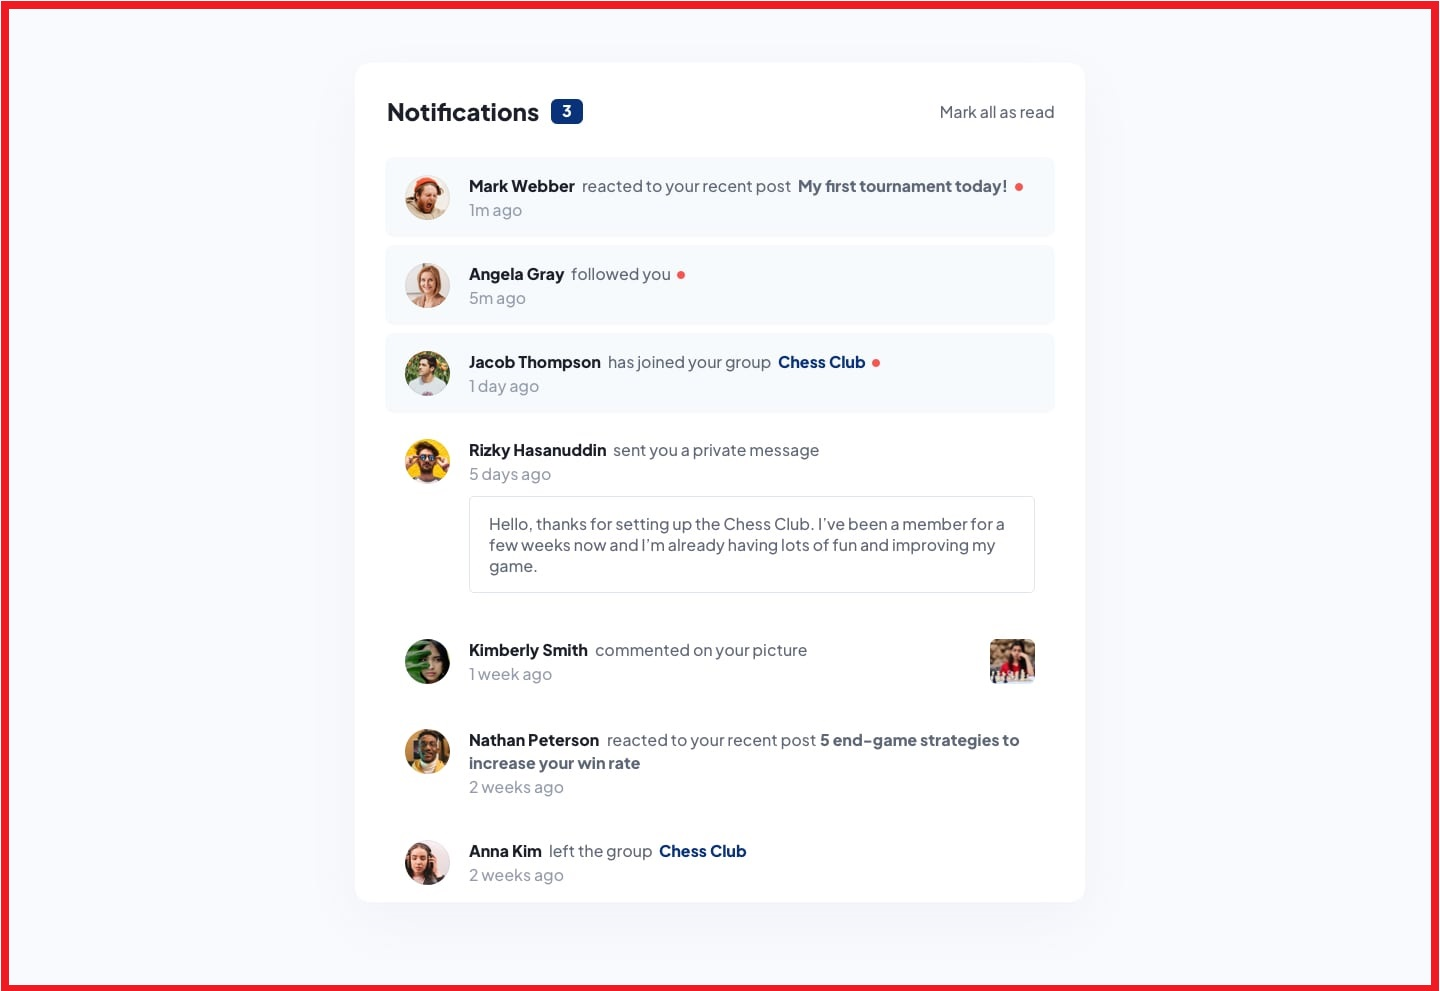
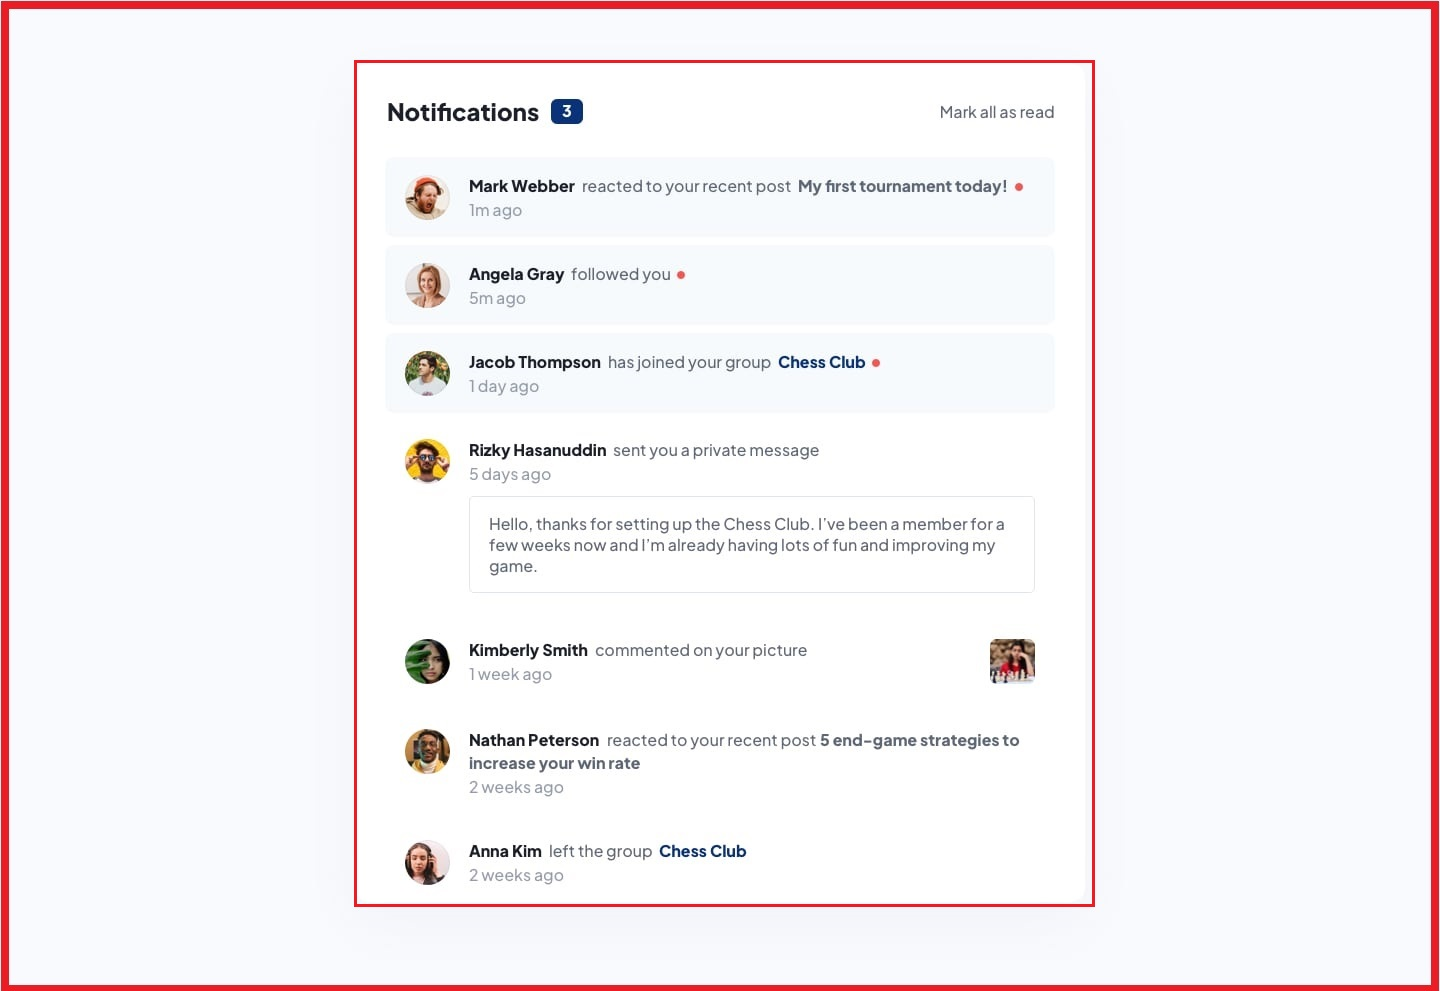
Ch25: finalizing mobile and desktop layout

Changed region(s): [[0.25, 0.9082, 0.75, 0.9384]]

diff --git a/25-notifications-page-main/css/style.css b/25-notifications-page-main/css/style.css
@@ -68,9 +68,12 @@ h6 {
 body {
   font-family: "Plus Jakarta Sans", sans-serif;
   background: #F2F2F2;
+  display: grid;
+  place-content: center;
 }
 
 .notifications {
+  outline: red solid 1px;
   margin: auto;
   max-width: 730px;
   padding: 1.5rem 1rem;
@@ -108,13 +111,14 @@ body {
   color: hsl(219, 85%, 26%);
 }
 .notifications .notification {
+  width: 100%;
   font-weight: 500;
   font-size: 14px;
   line-height: 18px;
   background-color: hsl(210, 60%, 98%);
   border-radius: 8px;
   padding: 1rem;
-  margin-block: 0.5rem;
+  margin-bottom: 0.5rem;
   margin-inline: 0.5rem;
 }
 .notifications .notification img {
@@ -126,6 +130,7 @@ body {
   margin-left: 1rem;
 }
 .notifications .notification .name {
+  font-weight: 800;
   color: hsl(224, 21%, 14%);
 }
 .notifications .notification .action {
@@ -133,7 +138,7 @@ body {
 }
 .notifications .notification .subject {
   font-weight: 700;
-  color: hsl(219, 12%, 42%);
+  color: hsl(219, 85%, 26%);
 }
 .notifications .notification .message {
   color: hsl(219, 12%, 42%);
@@ -141,6 +146,7 @@ body {
   border: 1px solid hsl(205, 33%, 90%);
   border-radius: 5px;
   padding: 0.5rem;
+  margin-block: 1.5rem;
 }
 .notifications .notification .timestamp {
   color: hsl(219, 14%, 63%);
@@ -150,10 +156,24 @@ body {
   font-size: 1.35rem;
   margin-left: 0.3rem;
 }
+.notifications .notification .notification-image {
+  flex-grow: 1;
+  display: flex;
+  justify-content: flex-end;
+}
+.notifications .notification .notification-image img {
+  width: 3rem;
+  height: 3rem;
+  border-radius: 0.5rem;
+}
 
 @media screen and (min-width: 768px) {
   .notifications {
     font-size: 14px;
+    padding: 2.3rem 2rem;
+  }
+  .notifications .header {
+    margin-bottom: 2rem;
   }
   .notifications .notification img {
     width: 3rem;

diff --git a/25-notifications-page-main/sass/style.scss b/25-notifications-page-main/sass/style.scss
@@ -5,9 +5,12 @@
 body {
     font-family: $font-family;
     background: #F2F2F2;
+    display: grid;
+    place-content: center;
 }
 
 .notifications {
+    outline: red solid 1px;
     margin: auto;
     max-width: 730px;
     padding: 1.5rem 1rem;
@@ -52,14 +55,14 @@ body {
     }
 
     .notification {
-
+        width: 100%;
         font-weight: 500;
         font-size: 14px;
         line-height: 18px;
         background-color: $very-light-grayish-blue;
         border-radius: 8px;
         padding: 1rem;
-        margin-block: 0.5rem;
+        margin-bottom: 0.5rem;
         margin-inline: 0.5rem;
 
         img {
@@ -73,6 +76,7 @@ body {
         }
 
         .name {
+            font-weight: 800;
             color: $very-dark-blue;
         }
 
@@ -82,7 +86,7 @@ body {
 
         .subject {
             font-weight: 700;
-            color: $dark-grayish-blue;
+            color: $blue;
         }
 
         .message {
@@ -91,6 +95,7 @@ body {
             border: 1px solid $light-grayish-blue-2;
             border-radius: 5px;
             padding: 0.5rem;
+            margin-block: 1.5rem;
         }
 
         .timestamp {
@@ -102,12 +107,29 @@ body {
             font-size: 1.35rem;
             margin-left: 0.3rem;
         }
+
+        .notification-image {
+            flex-grow: 1;
+            display: flex;
+            justify-content: flex-end;
+
+            img {
+                width: 3rem;
+                height: 3rem;
+                border-radius: 0.5rem;
+            }
+        }
     }
 }
 
 @media screen and (min-width: 768px) {
     .notifications {
         font-size: 14px;
+        padding: 2.3rem 2rem;
+
+        .header {
+            margin-bottom: 2rem;
+        }
 
         .notification {
             img {

diff --git a/25-notifications-page-main/index.html b/25-notifications-page-main/index.html
@@ -43,6 +43,7 @@
           <div class="content">
             <span class="name">Angela Gray</span>
             <span class="action">followed you</span>
+            <span class="red-dot">•</span>
           </div>
           <div class="timestamp">5m ago</div>
         </div>
@@ -55,6 +56,7 @@
             <span class="name">Jacob Thompson</span>
             <span class="action">has joined your group</span>
             <span class="subject">Chess Club</span>
+            <span class="red-dot">•</span>
           </div>
           <div class="timestamp">
             1 day ago
@@ -87,6 +89,9 @@
           <div class="timestamp">
             1 week ago
           </div>
+        </div>
+        <div class="notification-image">
+          <img src="./assets/images/image-chess.webp" alt="image chess player">
         </div>
       </div>
 
